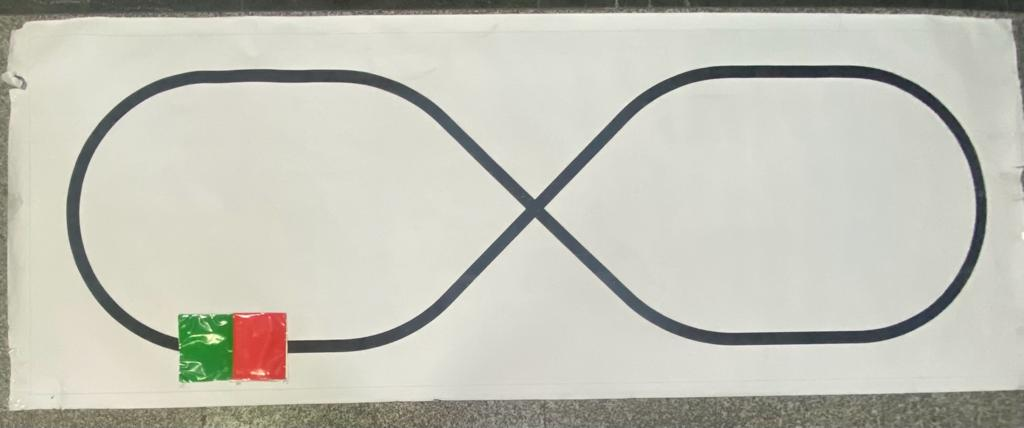
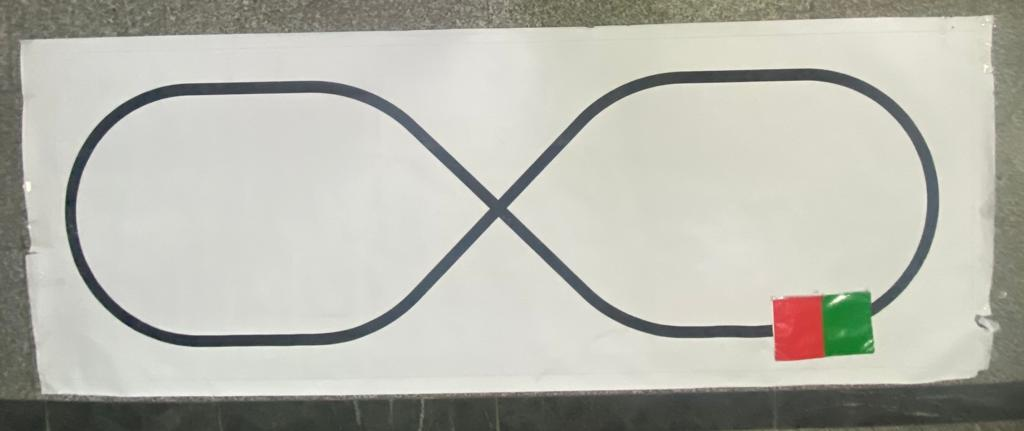
Before Logic

diff --git a/Image Processing/ImageProcessingC++/main.cpp b/Image Processing/ImageProcessingC++/main.cpp
@@ -13,12 +13,11 @@ int main(int argc, char** argv)
 {
 	//Step(1) Scan Track 
 	//1.Read Track Image
-	std::string path = "./assets/track/track.jpeg";
+	std::string path = "./assets/TestCases/TestCase2/track.jpeg";
 	Mat image = imread(path, 1); //Reading from a path
 
 	cout << "Size" << typeid(image.size()).name() << endl;
-	/*imshow("Original Track main.cpp", image);*/
-
+	
 	//2.Scanning Track Initially
 	Mat image_lines;
 	vector<Vec4i>start_end_points;
@@ -28,11 +27,13 @@ int main(int argc, char** argv)
 		cout << "Failed To Scan Track" << endl;
 		return -1;
 	}
+	imshow("lines", image_lines);
+	waitKey(0);
 
 	/************************************************************************************************/
 	//step(2) find car on track
 	//1.read an car on track image
-	std::string path2 = "./assets/ontrack/car.jpeg";
+	std::string path2 = "./assets/TestCases/TestCase2/04.jpeg";
 	Mat car_image = imread(path2, 1); //reading from a path
 
 	//cout << "size" << typeid(image.size()).name() << endl;
@@ -42,6 +43,7 @@ int main(int argc, char** argv)
 	int x_center, y_center, x_f, y_f, x_b, y_b;
 	Scalar front_color(255,0, 0);//red
 	Scalar back_color(0, 255, 0);//green
+	
 	car_found=find_car(x_center, y_center, x_f, y_f, x_b, y_b, car_image,front_color,back_color);
 
 	if (!car_found) {
@@ -50,9 +52,10 @@ int main(int argc, char** argv)
 	}
 
 	//Debug
-	//cv::line(image_lines, Point(x_center, y_center), Point(0, 0), Scalar(255, 0, 0), 2);
-	//imshow("Center vs lines", image_lines);
-	//waitKey(0);
+	Mat draw_temp2 = image_lines.clone();
+	cv::line(draw_temp2, Point(x_center, y_center), Point(0, 0), Scalar(255, 255, 255), 2);
+	imshow("Center vs lines", image_lines);
+	waitKey(0);
 
 
 	///************************************************************************************************/
@@ -61,7 +64,13 @@ int main(int argc, char** argv)
 	//int y_center = 700;
 	bool on_line;
 	int line_index;
-	car_on_line(on_line, line_index, x_center, y_center, image_lines);
+	/*Mat draw_temp2 = image_lines.clone();
+	cv::line(draw_temp2, Point(0, 0), Point(x_f, y_f), Scalar(255, 0, 0), 5);
+	cv::line(draw_temp2, Point(0, 0), Point(x_b, y_b), Scalar(0, 255, 255), 5);
+
+	imshow("front and back of the car", draw_temp2);*/
+	//waitKey(0);
+	car_on_line(on_line, line_index, x_f, y_f, x_b, y_b, image_lines,100);
 	if (!on_line) {
 		cout << "Car isn't on a straight line" << endl;
 		return 0;
@@ -76,7 +85,7 @@ int main(int argc, char** argv)
 
 	*/
 	bool inc_speed = false;
-	int dist_threshold = 150;
+	int dist_threshold = calculateDistance(x_f, y_f, x_b, y_b)*2;
 	//int x_f = 50, y_f = 200, x_b = 50, y_b = 250;
 	Vec4i lineto = start_end_points[line_index];
 	//line(image, Point(x_f, y_f), Point(x_b, y_b), Scalar(0, 255, 255), 10);

diff --git a/Image Processing/ImageProcessingC++/ScanTrack.cpp b/Image Processing/ImageProcessingC++/ScanTrack.cpp
@@ -139,6 +139,9 @@ bool extract_paper(Mat& warped_image, Mat img_bgr, bool draw) {
 }
 
 void extract_lines(Mat& image_lines, vector<Vec4i>& start_end_points, Mat image, double rho, double  theta, int threshold, double minLineLength, double  maxLineGap, int thickness) {
+	//maxLineGap gets its value from the default value in the .h file or from scan track function
+	// donst change it here 
+	maxLineGap = 10;
 	/**
 	* Extract Line out of the RGB image
 	
@@ -161,6 +164,8 @@ void extract_lines(Mat& image_lines, vector<Vec4i>& start_end_points, Mat image,
 
 	// Thinning Image
 	Mat thinned = thin_image(image_gray);
+	imshow("thinned", thinned);
+	waitKey(0);
 
 	// Dilate
 	Mat kernel, Dilate;
@@ -177,11 +182,13 @@ void extract_lines(Mat& image_lines, vector<Vec4i>& start_end_points, Mat image,
 	//	0 <= rho < Rmax
 	vector<Vec4i>lines;
 	//HoughLinesP(edges, lines, rho, theta, 100, minLineLength, maxLineGap);
+	imshow("	Diatled image", edges);
+	waitKey(0);
 	HoughLinesP(edges, lines, 1, theta, threshold, minLineLength, maxLineGap);
 	cout << "Hough Lines Detected " << lines.size();
 
 	// # Draw lines on the image
-	image_lines = Mat::zeros(image.size(), CV_8UC1);//Inverted image
+	image_lines = Mat::zeros(image.size(), CV_8UC3);//Inverted image
 
 	/*	
 	Store start and end points of each line
@@ -204,11 +211,11 @@ void extract_lines(Mat& image_lines, vector<Vec4i>& start_end_points, Mat image,
 
 		int x2 = line_inst[2];
 		int y2 = line_inst[3];
-		line(image_lines, Point(x1, y1), Point(x2, y2), Scalar(255-index, 255- index, 255- index), thickness);
+		line(image_lines, Point(x1, y1), Point(x2, y2), Scalar(255-index, 255, 255), thickness);
 		index++;
 	}
 
-	//// to see each line detected uncomment this
+	////// to see each line detected uncomment this
 	//for (int i=0; i < lines.size(); i++) {
 	//	Mat image_line = Mat::zeros(image.size(), CV_8UC1);//Inverted image
 	//	int x1 = lines[i][0];
@@ -216,7 +223,13 @@ void extract_lines(Mat& image_lines, vector<Vec4i>& start_end_points, Mat image,
 
 	//	int x2 = lines[i][2];
 	//	int y2 = lines[i][3];
-	//	line(image_lines, Point(x1, y1), Point(x2, y2), Scalar(255 - i, 255, 255), 1);
+	//	Mat temo= image_lines.clone();
+	//	if(i==0)
+	//		line(image_lines, Point(x1, y1), Point(x2, y2), Scalar(255  ,0,0), 3);
+	//	if(i==1)
+	//		line(image_lines, Point(x1, y1), Point(x2, y2), Scalar(0, 255, 0), 3);
+	//	if (i == 2)
+	//		line(image_lines, Point(x1, y1), Point(x2, y2), Scalar(0, 0,255 ), 3);
 	//	imshow("track_lines_loop", image_lines);
 	//	waitKey(0);
 	//}

diff --git a/Image Processing/ImageProcessingC++/ScanCar.cpp b/Image Processing/ImageProcessingC++/ScanCar.cpp
@@ -62,7 +62,7 @@ bool find_car(int& x_center, int& y_center, int& x_f, int& y_f, int& x_b, int& y
 	return true;
 }
 
-void car_on_line(bool& on_line, int& line_index, int x_car, int y_car, Mat lines_matrix, int threshold) {
+void car_on_line(bool& on_line, int& line_index, double x_car_front, double  y_car_front, double  x_car_back, double y_car_back, Mat lines_matrix, int threshold) {
 	/**
 	* This function detrmines whether car is on a straight line or not
 	*
@@ -85,8 +85,11 @@ void car_on_line(bool& on_line, int& line_index, int x_car, int y_car, Mat lines
 
 	int size_i = lines_matrix.rows;
 	int size_j = lines_matrix.cols;
-	int windo_size = 100;
+	int x_car = (x_car_front + x_car_back) / 2;
+	int y_car = (y_car_front + y_car_back) / 2;
+	int windo_size = calculateDistance(x_car_front , y_car_front , x_car_back, y_car_back)*1.5;
 	int count = 0;
+	
 	for (int i = y_car - windo_size / 2; i <= y_car + windo_size / 2; i++) {
 		if (i < 0 || i >= size_i)continue;
 		for (int j = x_car - windo_size / 2; j <= x_car + windo_size / 2; j++) {
@@ -157,7 +160,7 @@ bool increase_decrease_speed(Mat draw,double x_car_front, double  y_car_front, d
 		line_point[1] = line[1];
 	}
 	//  # 4. Take Action Depending on Distance between Car and the endpoint
-	int distanse = calculateDistance(x_car_front, y_car_front, line_point[0], line_point[1]);
+	int distanse = calculateDistance((x_car_front+x_car_back)/2,( y_car_front+y_car_back)/2, line_point[0], line_point[1]);
 	if (distanse > dist_threshold){
 		//Increase Speed
 		cout << "Increase Speed" << endl;

diff --git a/Image Processing/ImageProcessingC++/ScanCar.h b/Image Processing/ImageProcessingC++/ScanCar.h
@@ -9,6 +9,6 @@ using namespace cv;
 using namespace std;
 
 bool find_car(int& x_center, int& y_center, int& x_f, int& y_f, int& x_b, int& y_b, Mat image, Scalar front_color, Scalar back_color);
-void car_on_line(bool& on_line, int& line_index ,int x_car, int y_car, Mat lines_matrix, int threshold=1);
+void car_on_line(bool& on_line, int& line_index, double x_car_front, double  y_car_front, double  x_car_back, double y_car_back, Mat lines_matrix, int threshold=100);
 bool increase_decrease_speed(Mat draw,double x_car_front, double  y_car_front, double  x_car_back, double y_car_back, Vec4i line, double dist_threshold);
 #endif

diff --git a/Image Processing/ImageProcessingC++/Debug.h b/Image Processing/ImageProcessingC++/Debug.h
@@ -1,0 +1,17 @@
+#pragma once
+#ifndef UTILS_H    // To make sure you don't declare the function more than once by including the header multiple times.
+#define UTILS_H
+
+
+#include <stdio.h>
+#include <iostream>
+#include <opencv2/opencv.hpp> //Include OpenCV header file
+#include <algorithm>
+
+using namespace cv;
+using namespace std;
+
+Mat thin_image(Mat image);
+
+#endif
+
